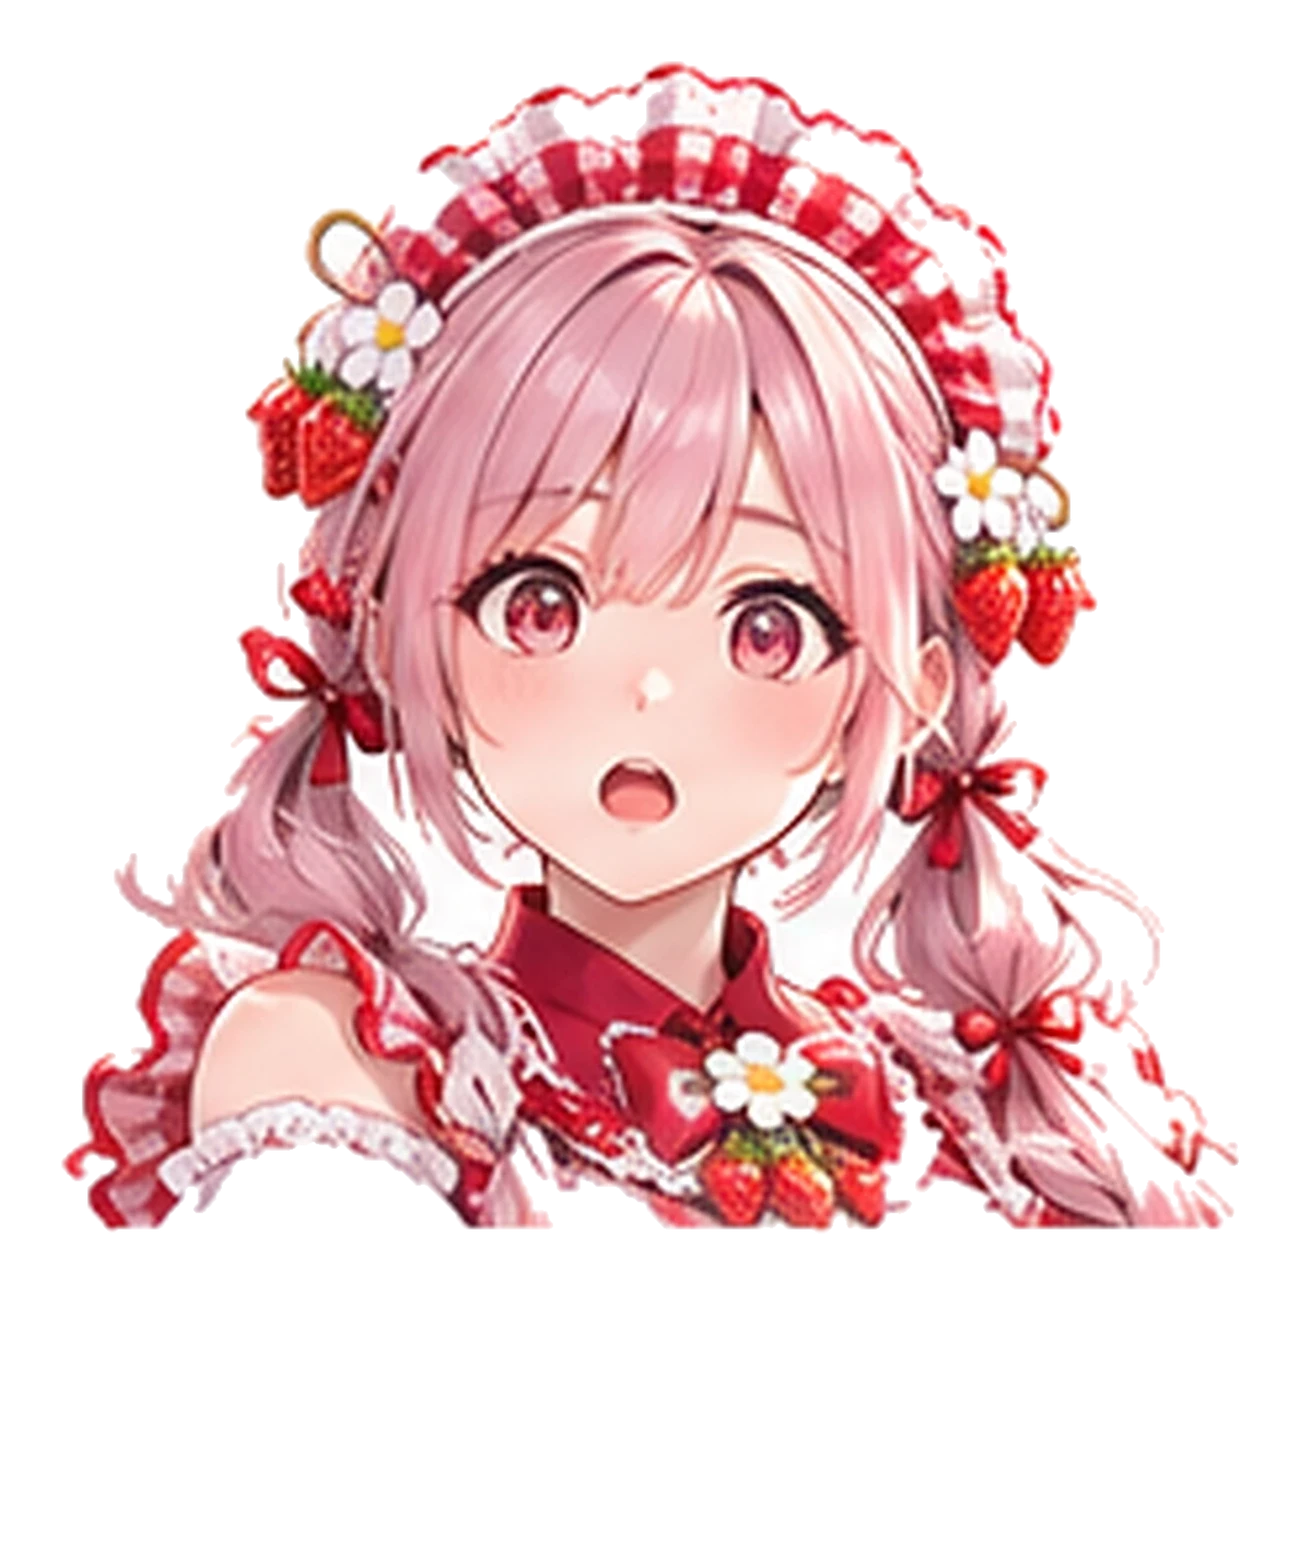
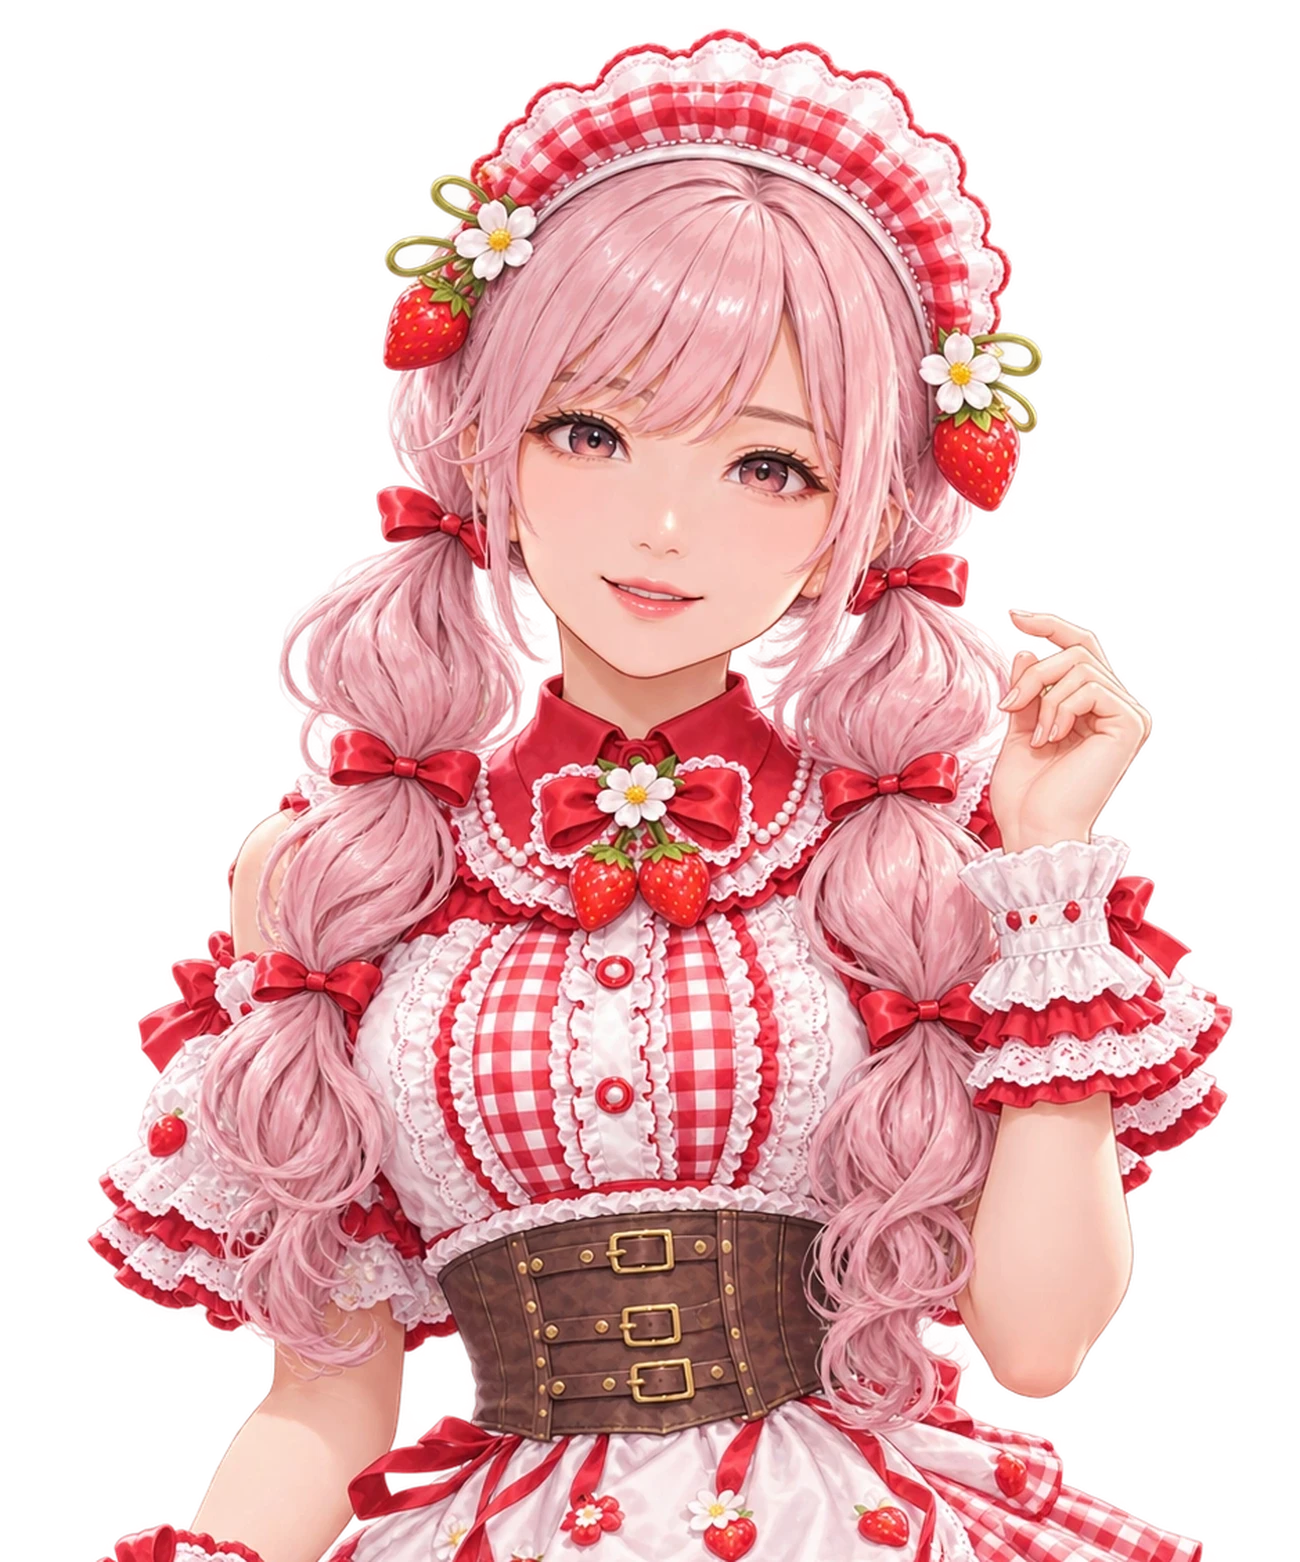
Ver.0.42.5.0 いちかを新デザインに切り替え（立ち絵・物語用・顔アイコン・表情）、カード絵の白い枠を除去

diff --git a/index.html b/index.html
@@ -1,3 +1,3 @@
 <!doctype html><html lang="ja"><head><meta charset="UTF-8"><meta name="viewport" content="width=device-width, initial-scale=1, viewport-fit=cover, interactive-widget=resizes-content"><meta name="theme-color" content="#f6f8ff"><title>宵星の契約者 | RE:START Ver.0.42.0.0</title><link rel="stylesheet" href="css/styles.css?v=0.42.0.0"><link rel="stylesheet" href="css/chibi_battle.css?v=0.42.0.0"><link rel="stylesheet" href="css/q6_classic_battle_v03540.css?v=0.42.0.0"><link rel="stylesheet" href="css/home_portrait_fit_v03550.css?v=0.42.0.0"><link rel="stylesheet" href="css/portrait_face_frame_v03560.css?v=0.42.0.0"><link rel="stylesheet" href="css/mobile_landscape_v03560_patch.css?v=20261103"><link rel="stylesheet" href="css/character_depth_v1.css?v=1"><link rel="stylesheet" href="css/character_acting_v1.css?v=20261104-2">
 </head><body><div id="app"></div>
-<script defer src="js/art.js?v=0.42.0.0"></script><script defer src="js/art_v2.js?v=20261104-makoto-v1"></script><script defer src="js/romance7.js?v=0.42.0.0"></script><script defer src="js/romance_shinonome.js?v=0.42.0.0"></script><script defer src="js/romance_oldcafe.js?v=0.42.0.0"></script><script defer src="js/romance_stage_lines.js?v=0.42.0.0"></script><script defer src="js/romance_station.js?v=0.42.0.0"></script><script defer src="js/romance_school.js?v=0.42.0.0"></script><script defer src="js/romance_seaside.js?v=0.42.0.0"></script><script defer src="js/romance_lighthouse.js?v=0.42.0.0"></script><script defer src="js/romance_chapter2.js?v=0.42.0.0"></script><script defer src="js/romance_chapter2_late.js?v=0.42.0.0"></script><script defer src="js/expression_cues.js?v=0.42.0.0"></script><script defer src="js/expression_art_v029.js?v=0.42.0.0"></script><script defer src="js/expression_cues_v029.js?v=0.42.0.0"></script><script defer src="js/prologue_faces_v03439.js?v=0.42.0.0"></script><script defer src="js/audio.js?v=0.42.0.0"></script><script defer src="js/audio_trial.js?v=0.42.0.0"></script><script defer src="js/romance_chapter3.js?v=0.42.0.0"></script><script defer src="js/romance_chapter3_late.js?v=0.42.0.0"></script><script defer src="js/romance_chapter4.js?v=0.42.0.0"></script><script defer src="js/romance_chapter5.js?v=0.42.0.0"></script><script defer src="js/chapter5_rewrite_v0360.js?v=0.42.0.0"></script><script defer src="js/chapter6_v0370.js?v=0.42.0.0"></script><script defer src="js/chapter7_v0380.js?v=0.42.0.0"></script><script defer src="js/chapter8_v0390.js?v=0.42.0.0"></script><script defer src="js/chapter9_v0400.js?v=0.42.0.0"></script><script defer src="js/chapter10_v0410.js?v=0.42.0.0"></script><script defer src="js/investigation.js?v=0.42.0.0"></script><script defer src="js/story_backgrounds_v031.js?v=0.42.0.0"></script><script defer src="js/portrait_fit_v031.js?v=0.42.0.0"></script><script defer src="js/new_units_v026.js?v=0.42.0.0"></script><script defer src="js/heroines_v027.js?v=0.42.0.0"></script><script defer src="js/heroines_v028.js?v=0.42.0.0"></script><script defer src="js/heroines_v0420.js?v=0.42.4.0"></script><script defer src="js/performance_v016.js?v=0.42.0.0"></script><script defer src="js/q12_hd2d.js?v=0.42.0.0"></script><script defer src="js/q12_cinematic.js?v=0.42.0.0"></script><script defer src="js/chibi_battle.js?v=0.42.3.0"></script><script defer src="js/zankyo_enemy_art_v03440.js?v=0.42.0.0"></script><script defer src="js/chibi_bridge_v03321.js?v=0.42.0.0"></script><script defer src="js/battle_turn_v032.js?v=0.42.0.0"></script><script defer src="js/battle_weakness_v033.js?v=0.42.0.0"></script><script defer src="js/battle_flames_v034.js?v=0.42.0.0"></script><script defer src="js/battle_flame_ui_v03410.js?v=0.42.0.0"></script><script defer src="js/battle_auto_v03454.js?v=0.42.0.0"></script><script defer src="js/ambient_v03438.js?v=0.42.0.0"></script><script defer src="js/story_rewrite_v03416.js?v=0.42.0.0"></script><script defer src="js/character_depth_v1.js?v=60"></script><script defer src="js/game.js?v=0.42.0.0"></script><script defer src="js/haruka_chapter4_v03458.js?v=0.42.0.0"></script><script defer src="js/boss_director_v03462.js?v=0.42.0.0"></script><script defer src="js/q6_classic_battle_v03540.js?v=0.42.0.0"></script><script defer src="js/home_portrait_fit_v03550.js?v=0.42.0.0"></script><script defer src="js/portrait_faces_v03560.js?v=0.42.0.0"></script><script defer src="js/portrait_face_frame_v03560.js?v=0.42.0.0"></script><script defer src="js/story_weight_cues_v0359.js?v=0.42.0.0"></script><script defer src="js/heroines_v0420_wire.js?v=0.42.4.0"></script><script defer src="js/juri_secret_gallery_v0425.js?v=20261105-1"></script></body></html>
+<script defer src="js/art.js?v=0.42.0.0"></script><script defer src="js/art_v2.js?v=20261104-makoto-v1"></script><script defer src="js/romance7.js?v=0.42.0.0"></script><script defer src="js/romance_shinonome.js?v=0.42.0.0"></script><script defer src="js/romance_oldcafe.js?v=0.42.0.0"></script><script defer src="js/romance_stage_lines.js?v=0.42.0.0"></script><script defer src="js/romance_station.js?v=0.42.0.0"></script><script defer src="js/romance_school.js?v=0.42.0.0"></script><script defer src="js/romance_seaside.js?v=0.42.0.0"></script><script defer src="js/romance_lighthouse.js?v=0.42.0.0"></script><script defer src="js/romance_chapter2.js?v=0.42.0.0"></script><script defer src="js/romance_chapter2_late.js?v=0.42.0.0"></script><script defer src="js/expression_cues.js?v=0.42.0.0"></script><script defer src="js/expression_art_v029.js?v=0.42.0.0"></script><script defer src="js/expression_cues_v029.js?v=0.42.0.0"></script><script defer src="js/prologue_faces_v03439.js?v=0.42.0.0"></script><script defer src="js/audio.js?v=0.42.0.0"></script><script defer src="js/audio_trial.js?v=0.42.0.0"></script><script defer src="js/romance_chapter3.js?v=0.42.0.0"></script><script defer src="js/romance_chapter3_late.js?v=0.42.0.0"></script><script defer src="js/romance_chapter4.js?v=0.42.0.0"></script><script defer src="js/romance_chapter5.js?v=0.42.0.0"></script><script defer src="js/chapter5_rewrite_v0360.js?v=0.42.0.0"></script><script defer src="js/chapter6_v0370.js?v=0.42.0.0"></script><script defer src="js/chapter7_v0380.js?v=0.42.0.0"></script><script defer src="js/chapter8_v0390.js?v=0.42.0.0"></script><script defer src="js/chapter9_v0400.js?v=0.42.0.0"></script><script defer src="js/chapter10_v0410.js?v=0.42.0.0"></script><script defer src="js/investigation.js?v=0.42.0.0"></script><script defer src="js/story_backgrounds_v031.js?v=0.42.0.0"></script><script defer src="js/portrait_fit_v031.js?v=0.42.0.0"></script><script defer src="js/new_units_v026.js?v=0.42.0.0"></script><script defer src="js/heroines_v027.js?v=0.42.0.0"></script><script defer src="js/heroines_v028.js?v=0.42.0.0"></script><script defer src="js/heroines_v0420.js?v=0.42.5.0"></script><script defer src="js/performance_v016.js?v=0.42.0.0"></script><script defer src="js/q12_hd2d.js?v=0.42.0.0"></script><script defer src="js/q12_cinematic.js?v=0.42.0.0"></script><script defer src="js/chibi_battle.js?v=0.42.3.0"></script><script defer src="js/zankyo_enemy_art_v03440.js?v=0.42.0.0"></script><script defer src="js/chibi_bridge_v03321.js?v=0.42.0.0"></script><script defer src="js/battle_turn_v032.js?v=0.42.0.0"></script><script defer src="js/battle_weakness_v033.js?v=0.42.0.0"></script><script defer src="js/battle_flames_v034.js?v=0.42.0.0"></script><script defer src="js/battle_flame_ui_v03410.js?v=0.42.0.0"></script><script defer src="js/battle_auto_v03454.js?v=0.42.0.0"></script><script defer src="js/ambient_v03438.js?v=0.42.0.0"></script><script defer src="js/story_rewrite_v03416.js?v=0.42.0.0"></script><script defer src="js/character_depth_v1.js?v=60"></script><script defer src="js/game.js?v=0.42.5.0"></script><script defer src="js/haruka_chapter4_v03458.js?v=0.42.0.0"></script><script defer src="js/boss_director_v03462.js?v=0.42.0.0"></script><script defer src="js/q6_classic_battle_v03540.js?v=0.42.0.0"></script><script defer src="js/home_portrait_fit_v03550.js?v=0.42.0.0"></script><script defer src="js/portrait_faces_v03560.js?v=0.42.0.0"></script><script defer src="js/portrait_face_frame_v03560.js?v=0.42.0.0"></script><script defer src="js/story_weight_cues_v0359.js?v=0.42.0.0"></script><script defer src="js/heroines_v0420_wire.js?v=0.42.5.0"></script><script defer src="js/juri_secret_gallery_v0425.js?v=20261105-1"></script></body></html>

diff --git a/js/game.js b/js/game.js
@@ -474,7 +474,7 @@ function expressionPortraitMarkup(personId,face='normal',sceneKey='default',opts
  const actual=normalizeExpressionFace(face), hasAlt=hasExpressionArt(personId,actual);
  const trueTouko=personId==='touko'&&storySession&&(TRUE_TOUKO_STORY_IDS.includes(storySession.id)||(storySession.id==='q52_intro'&&storySession.step>=(CHAPTER_STORIES.q52_intro?.lines?.findIndex(l=>l.toukoReveal)??99))); // v0.36.0.0: 正体の姿は第9章まで使わない
  // v0.34.55.0: 透子は背景を抜いた会話用の上半身（story_cast/touko_talk.webp）を使う
- const src=trueTouko?'assets/ART_V2/story_cast/touko_true_talk.webp?v=0.34.71.0':['touko','sakuya','ibuki','haruka','saya','natsume','hotaru','aoi_dark','ruri','ichika','minori'].includes(personId)?`assets/ART_V2/story_cast/${personId}_talk.webp?v=0.41.6.0`:expressionArt(personId,actual);
+ const src=trueTouko?'assets/ART_V2/story_cast/touko_true_talk.webp?v=0.34.71.0':['touko','sakuya','ibuki','haruka','saya','natsume','hotaru','aoi_dark','ruri','ichika','minori'].includes(personId)?`assets/ART_V2/story_cast/${personId}_talk.webp?v=0.42.5.0`:expressionArt(personId,actual);
  const play=rememberExpression(sceneKey,personId,actual,!hasAlt);
  const wrapClass=[opts.wrapperClass||'',`expr-face-${actual}`,!hasAlt&&actual!=='normal'?'expr-uses-fallback':'',play?`expr-animate-${actual}`:'',opts.stateClass||''].filter(Boolean).join(' ');
  const alt=opts.alt||`${PEOPLE[personId]?.name||personId}の立ち絵`;

diff --git a/js/heroines_v0420_wire.js b/js/heroines_v0420_wire.js
@@ -1,6 +1,6 @@
 /* Ver.0.42.0.0 — 新ヒロイン6人の絵（全身・上半身・表情）を絵の対応表に登録する。 */
 (function(){
- const V='?v=0.42.4.0';const ids=['natsume','hotaru','minori','ichika','juri','saeko'];
+ const V='?v=0.42.5.0';const ids=['natsume','hotaru','minori','ichika','juri','saeko'];
  if(typeof ART_V2!=='undefined'){for(const id of ids){
   if(ART_V2.full_body)ART_V2.full_body[id]=`assets/ART_V2/full_body/${id}.webp${V}`;
   if(ART_V2.upper_body)ART_V2.upper_body[id]=`assets/ART_V2/upper_body/${id}.webp${V}`;
